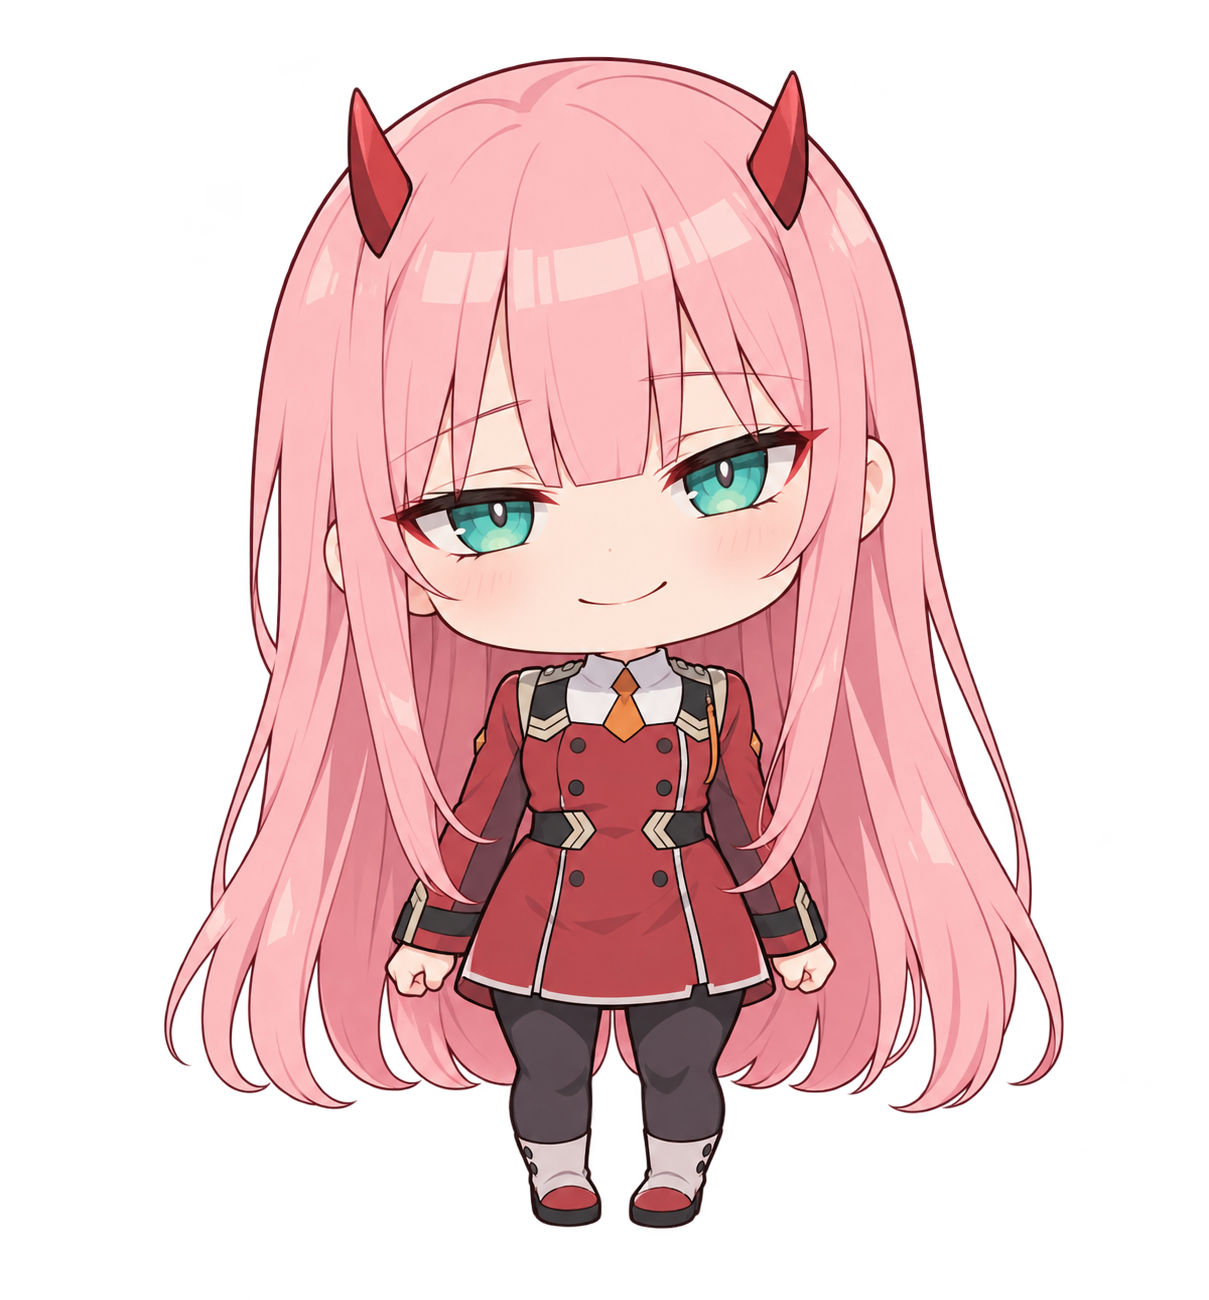
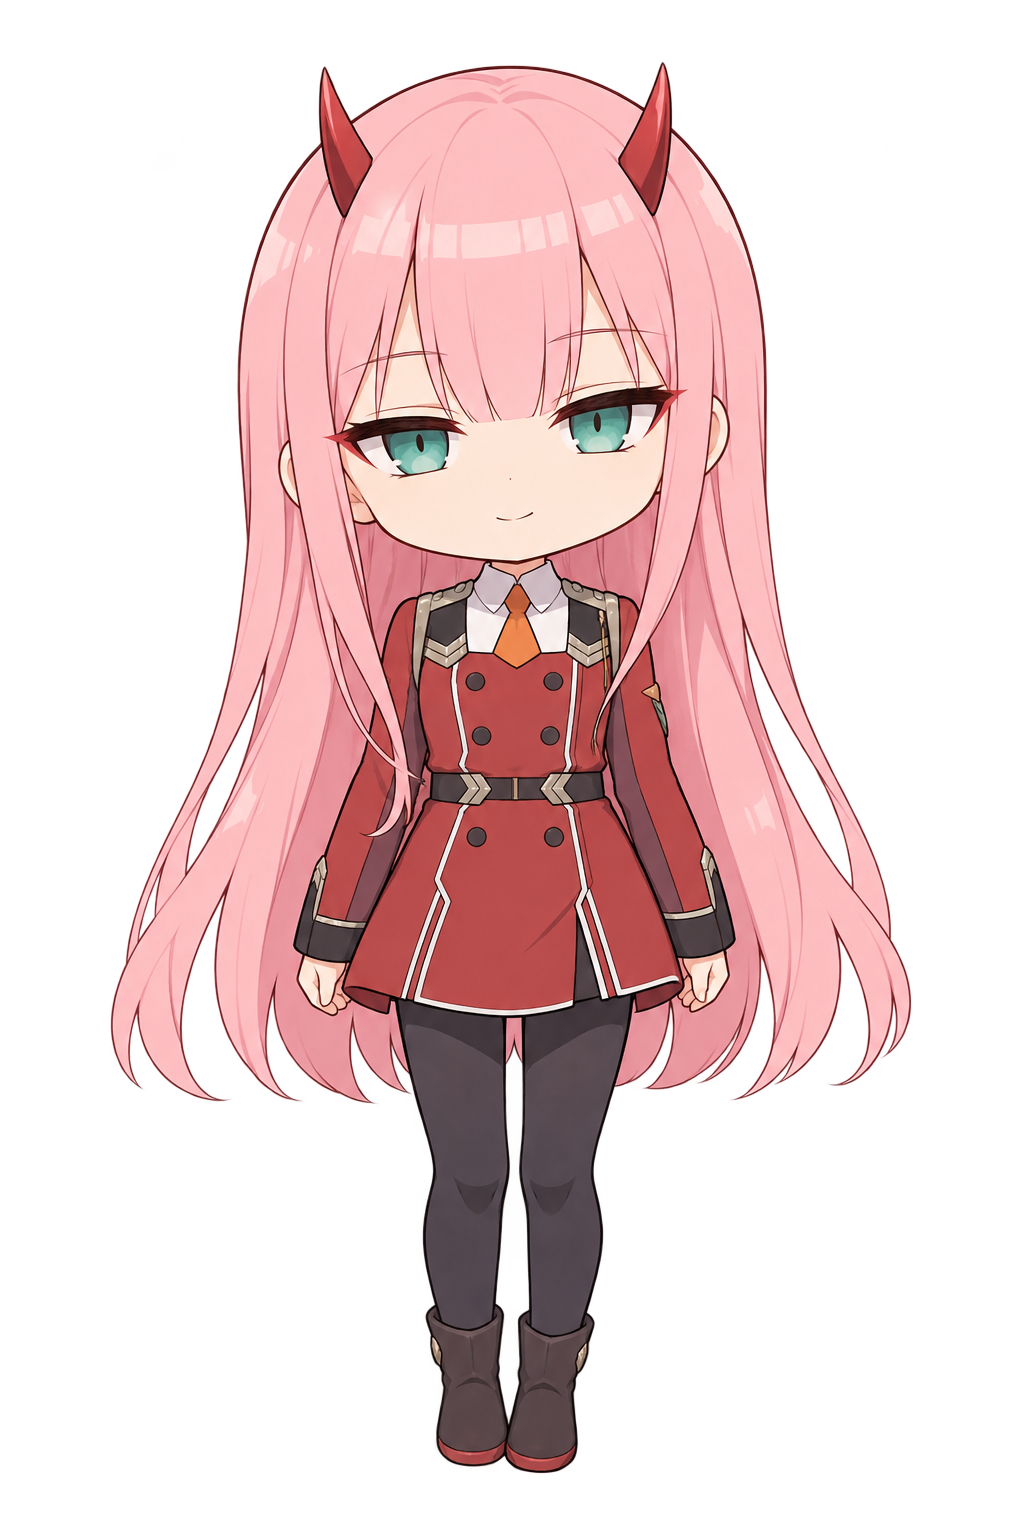
art: refine face and slim silhouette to match reference

diff --git a/assets/ARTWORK.md b/assets/ARTWORK.md
@@ -1,0 +1,9 @@
+# Character artwork
+
+Generated with the built-in image-generation tool using the user-supplied Zero Two Desktop Buddy Blueprint as the reference. Zero Two and DARLING in the FRANXX belong to their respective rights holders. This is a personal fan project.
+
+The current asset is a single transparent standing image. Distinct animation frames are still to be produced.
+
+## Final generation prompt
+
+undefined
